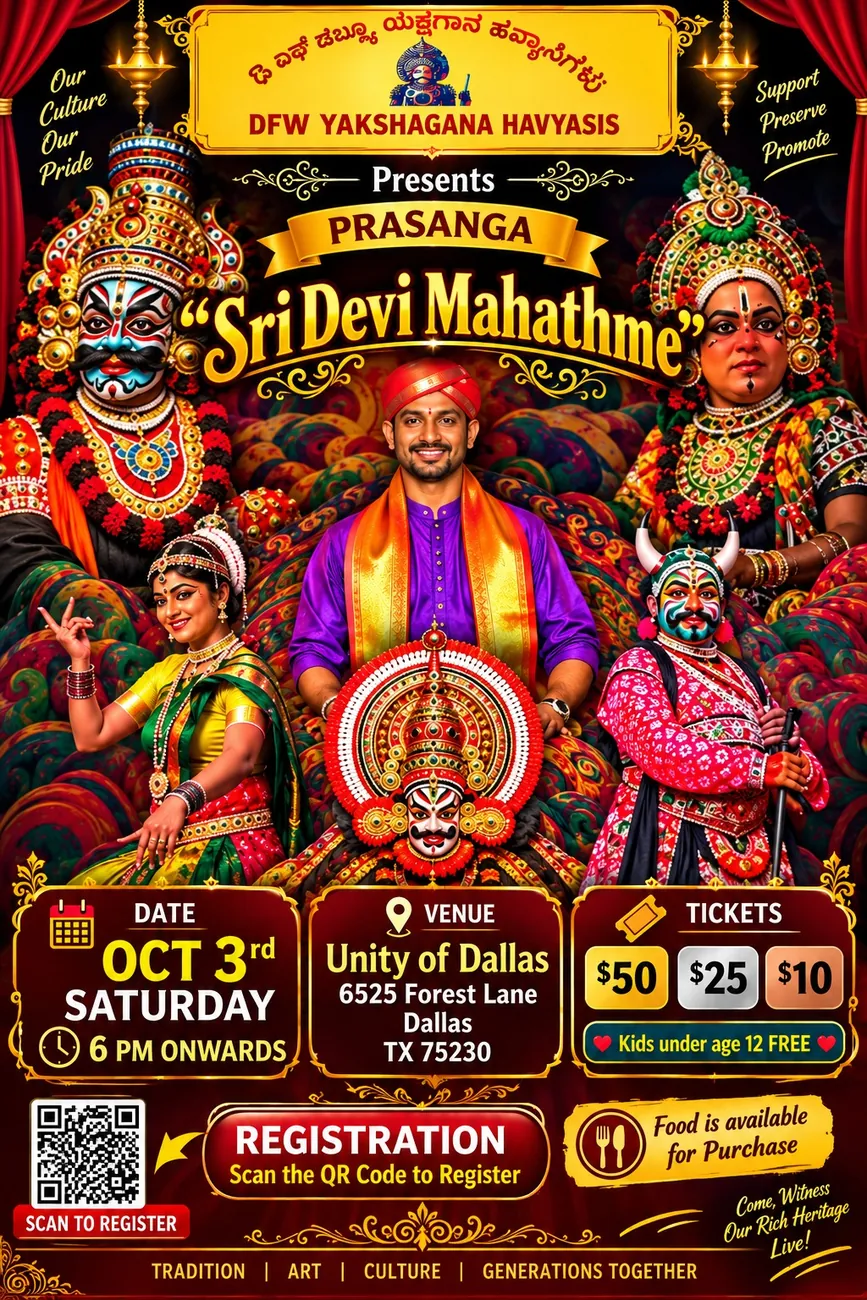
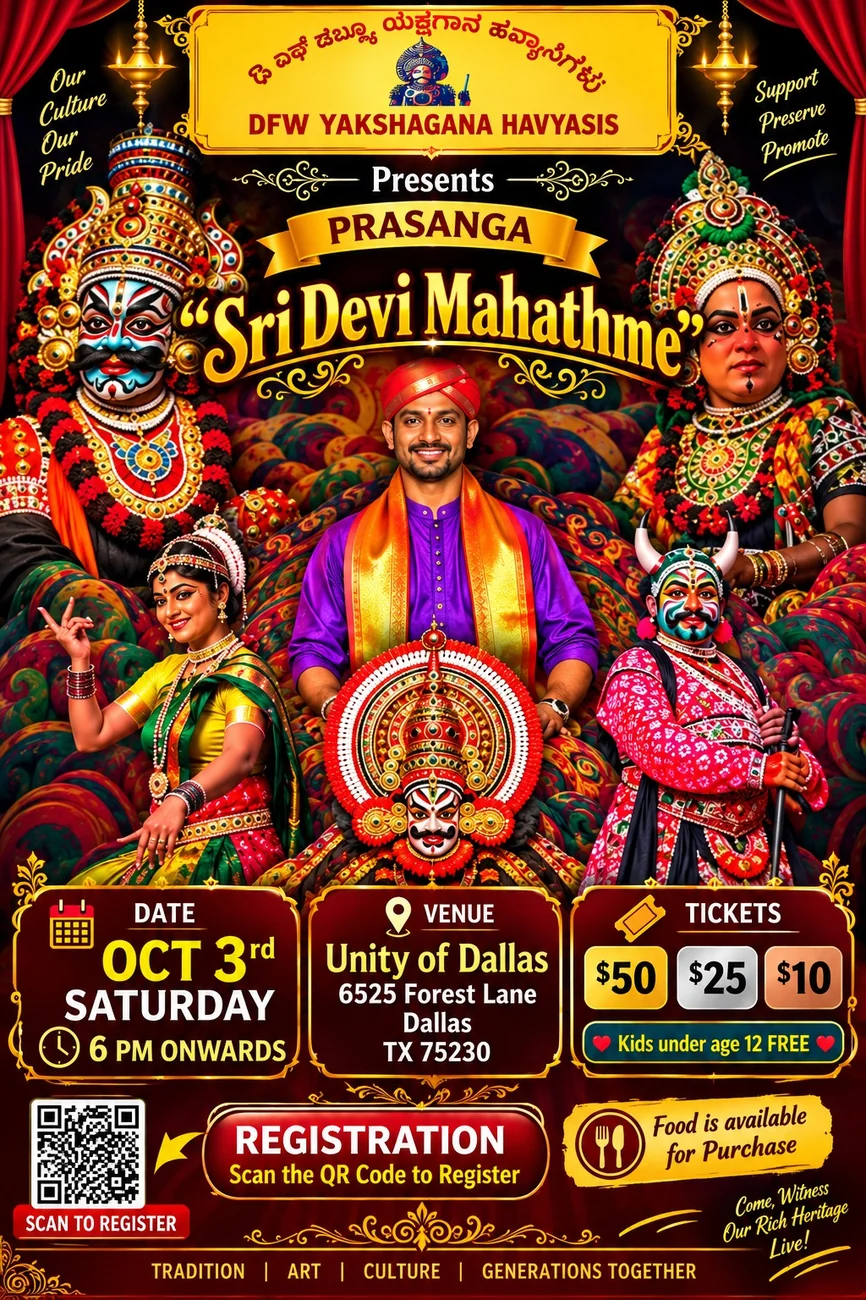
feat: replace event flyer with high-res Yakshagana poster and add kid-seat tests

diff --git a/test_party_checkin.py b/test_party_checkin.py
@@ -3465,6 +3465,282 @@ class TestPartyCheckIn(unittest.TestCase):
         stats = get_stats()
         self.assertEqual(stats["revenue"], 85.0 + 100.0)
 
+    # ── Free kid seats (organiser's rule: under-12 free, but ONLY in the
+    # cheapest SEAT_TIERS tier — see AGENTS.md / config.is_free_kid_seat()) ──
+
+    def test_register_guest_kid_seat_in_cheap_tier_costs_nothing_and_holds_the_seat(self):
+        """The core scenario: paid=[1] + kids=[90] must total $50 (seat 1's
+        price only), not $60 — the kid seat is free but still real
+        inventory (ticket_count/seats stay paid-only, kid_seats is separate)."""
+        result = self._register(name="Bargain Family", email="bargainfamily@test.com",
+                                zelle_ref="ZELLE-BARGFAM1", seat_numbers=[1], kid_seat_numbers=[90])
+        self.assertTrue(result["ok"])
+        guest = result["guest"]
+        self.assertEqual(guest["ticket_count"], 1)
+        self.assertEqual(guest["seats"], [1])
+        self.assertEqual(guest["kid_seats"], [90])
+        # Only the paid seat is priced; the kid seat adds nothing.
+        self.assertEqual(config.seats_total_cents(guest["seats"]), 5000)
+        self.assertEqual(config.seats_total_cents(guest["seats"]) / 100, 50.0)
+
+    def test_expected_revenue_ignores_kid_seats(self):
+        """Revenue must count ONLY the paid seats — a kid seat is $0 by
+        design and must never be added into the Zelle-reconciliation total."""
+        self._register(name="Kid Revenue", email="kidrevenue@test.com",
+                       zelle_ref="ZELLE-KIDREV01",
+                       seat_numbers=[1, 30], kid_seat_numbers=[90, 91])
+        stats = get_stats()
+        # Seats 1 + 30 = $50 + $25 = $75; kid seats 90/91 add nothing.
+        self.assertEqual(stats["revenue"], 75.0)
+
+    def test_validate_registration_kid_seat_outside_cheap_tier_is_rejected(self):
+        """A front-row seat (e.g. 1 or 30) is not free-kid-eligible — the
+        organiser's rule is cheapest tier only. The error must name the
+        actual free-eligible range so the guest knows what to do instead."""
+        for bad_kid_seat in (1, 30):
+            with self.subTest(bad_kid_seat=bad_kid_seat):
+                cleaned, errors = validate_registration(
+                    name="Front Row Kid", email=f"frontrowkid{bad_kid_seat}@test.com",
+                    phone="+1-555-333-1111", plus_one_name="", zelle_ref="ZELLE-FRONTKID",
+                    agree_terms=True, seat_numbers=[50], kid_seat_numbers=[bad_kid_seat],
+                )
+                self.assertIn("kid_seat_numbers", errors)
+                self.assertIn(config.free_kid_seat_range_label(), errors["kid_seat_numbers"])
+
+    def test_validate_registration_kid_seat_cannot_also_be_a_paid_seat(self):
+        """A seat can't be both paid and free on the same booking."""
+        cleaned, errors = validate_registration(
+            name="Double Booked Seat", email="doublebookedseat@test.com",
+            phone="+1-555-333-2222", plus_one_name="", zelle_ref="ZELLE-DBLBOOK1",
+            agree_terms=True, seat_numbers=[90], kid_seat_numbers=[90],
+        )
+        self.assertIn("kid_seat_numbers", errors)
+
+    def test_validate_registration_kid_seats_require_at_least_one_paid_seat(self):
+        """A child cannot book alone — an adult (paid) seat is required on
+        the same booking."""
+        cleaned, errors = validate_registration(
+            name="Lone Kid", email="lonekid@test.com", phone="+1-555-333-3333",
+            plus_one_name="", zelle_ref="ZELLE-LONEKID1", agree_terms=True,
+            seat_numbers=[], kid_seat_numbers=[90],
+        )
+        self.assertIn("kid_seat_numbers", errors)
+
+    def test_validate_registration_blank_kid_seats_is_not_an_error(self):
+        """A booking with no kids at all — the normal case — must not be
+        flagged just because kid_seat_numbers was passed as empty."""
+        cleaned, errors = validate_registration(
+            name="No Kids Here", email="nokidshere@test.com", phone="+1-555-333-4444",
+            plus_one_name="", zelle_ref="ZELLE-NOKIDHR1", agree_terms=True,
+            seat_numbers=[1], kid_seat_numbers=[],
+        )
+        self.assertNotIn("kid_seat_numbers", errors)
+        self.assertEqual(cleaned["kid_seat_numbers"], [])
+        self.assertEqual(cleaned["kid_count"], 0)
+
+    def test_validate_registration_too_many_kid_seats_is_rejected(self):
+        with patch.object(config, "MAX_KIDS_PER_REGISTRATION", 2):
+            cleaned, errors = validate_registration(
+                name="Too Many Kids", email="toomanykids@test.com", phone="+1-555-333-5555",
+                plus_one_name="", zelle_ref="ZELLE-TOOMANY1", agree_terms=True,
+                seat_numbers=[1], kid_seat_numbers=[90, 91, 92],
+            )
+        self.assertIn("kid_seat_numbers", errors)
+
+    def test_validate_registration_without_kid_seat_numbers_behaves_as_before(self):
+        # kid_seat_numbers left at its default (None): no kid-related keys
+        # at all, existing callers unaffected.
+        cleaned, errors = validate_registration(
+            name="No Kids Param", email="nokidsparam@test.com", phone="+1-555-333-6666",
+            plus_one_name="", zelle_ref="ZELLE-NOKIDPRM", agree_terms=True,
+            seat_numbers=[1],
+        )
+        self.assertNotIn("kid_seat_numbers", cleaned)
+        self.assertNotIn("kid_seat_numbers", errors)
+
+    def test_validate_registration_kid_seats_derives_correct_ticket_count_and_names(self):
+        """Kid seats must NOT count toward ticket_count or the guest-name
+        requirement — only paid seats do."""
+        cleaned, errors = validate_registration(
+            name="Two Adults One Kid", email="twoadultsonekid@test.com",
+            phone="+1-555-333-7777", plus_one_name=_guest_name(0),
+            zelle_ref="ZELLE-2AD1KID1", agree_terms=True,
+            seat_numbers=[1, 2], kid_seat_numbers=[90],
+        )
+        self.assertNotIn("seat_numbers", errors)
+        self.assertNotIn("plus_one_name", errors)
+        self.assertNotIn("kid_seat_numbers", errors)
+        self.assertEqual(cleaned["ticket_count"], 2)
+        self.assertEqual(cleaned["kid_seat_numbers"], [90])
+        self.assertEqual(cleaned["kid_count"], 1)
+
+    def test_taken_seats_includes_kid_seats_and_blocks_a_second_booking_either_way(self):
+        """The double-booking guard: a free kid seat must be just as
+        "taken" as a paid one. Two registrations, seat 90 claimed as a kid
+        seat by the first — the second must be refused whether it tries to
+        take seat 90 as a PAID seat or as a KID seat."""
+        first = self._register(name="First Family", email="firstfamily@test.com",
+                               zelle_ref="ZELLE-FIRSTFAM", seat_numbers=[1], kid_seat_numbers=[90])
+        self.assertTrue(first["ok"])
+        self.assertIn(90, utils.taken_seats())
+
+        second_as_paid = self._register(name="Second As Paid", email="secondaspaid@test.com",
+                                        zelle_ref="ZELLE-SECPAID2", seat_numbers=[90])
+        self.assertFalse(second_as_paid["ok"])
+        self.assertEqual(second_as_paid["reason"], "seats_taken")
+        self.assertEqual(second_as_paid["taken"], [90])
+
+        third_as_kid = self._register(name="Third As Kid", email="thirdaskid@test.com",
+                                      zelle_ref="ZELLE-THIRDKID", seat_numbers=[2], kid_seat_numbers=[90])
+        self.assertFalse(third_as_kid["ok"])
+        self.assertEqual(third_as_kid["reason"], "seats_taken")
+        self.assertEqual(third_as_kid["taken"], [90])
+
+        # Neither refused attempt actually wrote a row.
+        self.assertIsNone(utils.get_guest_by_email("secondaspaid@test.com"))
+        self.assertIsNone(utils.get_guest_by_email("thirdaskid@test.com"))
+
+    def test_register_guest_capacity_counts_kid_seats(self):
+        """A free kid seat still occupies a real seat out of the venue's
+        cap — leaving it out of the cap check would let the venue be
+        oversold by exactly the number of free children registered."""
+        with patch.object(config, "max_total_tickets", return_value=5):
+            first = self._register(name="Family One", email="familyone@test.com",
+                                   zelle_ref="ZELLE-FAMILY01",
+                                   seat_numbers=[1, 2], kid_seat_numbers=[90, 91])
+            self.assertTrue(first["ok"])
+            # 4 of 5 seats are now spent (2 paid + 2 kid), even though
+            # ticket_count only shows 2 — tickets_sold() alone would say 2.
+            second = self._register(name="Family Two", email="familytwo@test.com",
+                                    zelle_ref="ZELLE-FAMILY02",
+                                    seat_numbers=[3], kid_seat_numbers=[92, 93])
+        self.assertFalse(second["ok"])
+        self.assertEqual(second["reason"], "not_enough_tickets")
+        self.assertEqual(second["remaining"], 1)
+        self.assertIsNone(utils.get_guest_by_email("familytwo@test.com"))
+
+    def test_register_guest_kid_seats_default_to_none_unaffected(self):
+        """kid_seat_numbers left at its default (None): identical to the
+        pre-existing seat-picking behaviour, no kid columns involved."""
+        result = self._register(name="No Kids Default", email="nokidsdefault@test.com",
+                                zelle_ref="ZELLE-NOKIDDEF", seat_numbers=[5])
+        self.assertTrue(result["ok"])
+        self.assertEqual(result["guest"]["kid_seats"], [])
+        self.assertEqual(result["guest"]["kid_seat_numbers"], "")
+
+    def test_party_size_and_wristband_count_include_kids(self):
+        """A child still walks through the door and needs a wristband, and
+        counts toward the party's head count, even though they hold no
+        ticket."""
+        result = self._register(name="Party Size Family", email="partysizefam@test.com",
+                                zelle_ref="ZELLE-PARTYSZ1", plus_one_name=_guest_name(0),
+                                seat_numbers=[1, 2], kid_seat_numbers=[90, 91])
+        self.assertTrue(result["ok"])
+        guest = result["guest"]
+        # 2 paid tickets (registrant + 1 named guest) + 2 free kid seats.
+        self.assertEqual(utils.party_size(guest), 4)
+        self.assertEqual(utils.wristband_count(guest), 4)
+
+    def test_kid_seat_numbers_round_trips_through_the_db_and_to_dict(self):
+        session = get_db()
+        try:
+            guest = Guest(
+                name="Kid Round Trip", email="kidroundtrip@test.com", ticket_count=1,
+                zelle_ref="ZELLE-KIDRT001", qr_code=generate_qr_code(),
+                seat_numbers=utils.format_seat_numbers([1]),
+                kid_seat_numbers=utils.format_seat_numbers([91, 90]),
+            )
+            session.add(guest)
+            session.commit()
+            gid = guest.id
+        finally:
+            session.close()
+
+        reloaded = get_guest(gid)
+        self.assertEqual(reloaded["kid_seat_numbers"], "90,91")
+        self.assertEqual(reloaded["kid_seats"], [90, 91])
+
+    def test_generate_csv_includes_kid_seats_column(self):
+        session = get_db()
+        session.add(Guest(
+            name="Kid CSV Guest", email="kidcsv@test.com", ticket_count=1,
+            zelle_ref="ZELLE-KIDCSV1", qr_code=generate_qr_code(),
+            seat_numbers="1", kid_seat_numbers="91,90",
+        ))
+        session.commit()
+        session.close()
+
+        rows = list(csv.DictReader(io.StringIO(generate_csv())))
+        row = next(r for r in rows if r["Email"] == "kidcsv@test.com")
+        self.assertEqual(row["Kid Seats"], config.format_seat_labels([90, 91]))
+
+    def test_generate_csv_kid_seats_column_blank_for_no_kids(self):
+        session = get_db()
+        session.add(Guest(
+            name="No Kid CSV Guest", email="nokidcsv@test.com", ticket_count=1,
+            zelle_ref="ZELLE-NOKIDCSV", qr_code=generate_qr_code(),
+            seat_numbers="1",
+        ))
+        session.commit()
+        session.close()
+
+        rows = list(csv.DictReader(io.StringIO(generate_csv())))
+        row = next(r for r in rows if r["Email"] == "nokidcsv@test.com")
+        self.assertEqual(row["Kid Seats"], "—")
+
+    def test_kid_seat_numbers_list_delegates_to_seat_numbers_list(self):
+        self.assertEqual(utils.kid_seat_numbers_list("17,3,3,4"), [3, 4, 17])
+        self.assertEqual(utils.kid_seat_numbers_list(""), [])
+        self.assertEqual(utils.kid_seat_numbers_list(None), [])
+
+    def test_kid_tickets_sold_sums_kid_seats_across_bookings(self):
+        self._register(name="Kid Sold A", email="kidsolda@test.com",
+                       zelle_ref="ZELLE-KIDSOLDA", seat_numbers=[1], kid_seat_numbers=[90, 91])
+        self._register(name="Kid Sold B", email="kidsoldb@test.com",
+                       zelle_ref="ZELLE-KIDSOLDB", seat_numbers=[2], kid_seat_numbers=[92])
+        # A legacy/no-kids booking must contribute nothing.
+        self._register(name="Kid Sold C", email="kidsoldc@test.com",
+                       zelle_ref="ZELLE-KIDSOLDC", seat_numbers=[3])
+        self.assertEqual(utils.kid_tickets_sold(), 3)
+
+    def test_init_db_survives_a_raising_kid_seat_numbers_migration(self):
+        """Mirrors test_init_db_survives_a_raising_seat_numbers_migration:
+        the guests.kid_seat_numbers / submission_logs.kid_seat_numbers
+        ALTER TABLE migrations must be wrapped so a failure logs and
+        continues rather than aborting boot."""
+        from sqlalchemy import inspect as real_inspect_fn
+        from sqlalchemy.engine import Connection
+
+        class _FakeInspector:
+            def __init__(self, real):
+                self._real = real
+
+            def get_table_names(self):
+                return self._real.get_table_names()
+
+            def get_columns(self, table_name):
+                cols = self._real.get_columns(table_name)
+                if table_name in ("guests", "submission_logs"):
+                    cols = [c for c in cols if c["name"] != "kid_seat_numbers"]
+                return cols
+
+        def fake_inspect(engine_arg):
+            return _FakeInspector(real_inspect_fn(engine_arg))
+
+        original_execute = Connection.execute
+
+        def raising_execute(self_conn, statement, *args, **kwargs):
+            if "ADD COLUMN kid_seat_numbers" in str(statement):
+                raise RuntimeError("simulated ALTER TABLE failure")
+            return original_execute(self_conn, statement, *args, **kwargs)
+
+        with patch.object(utils, "inspect", side_effect=fake_inspect), \
+             patch.object(Connection, "execute", raising_execute):
+            try:
+                utils.init_db()
+            except Exception as e:
+                self.fail(f"init_db() raised despite the kid_seat_numbers migration being wrapped: {e}")
+
     # ── DB outage resilience (utils.db_health / degraded reads / writes still
     # report failure) ──────────────────────────────────────────────────────
     # Reproduces the "engine cached OK, database disappears later" incident:
